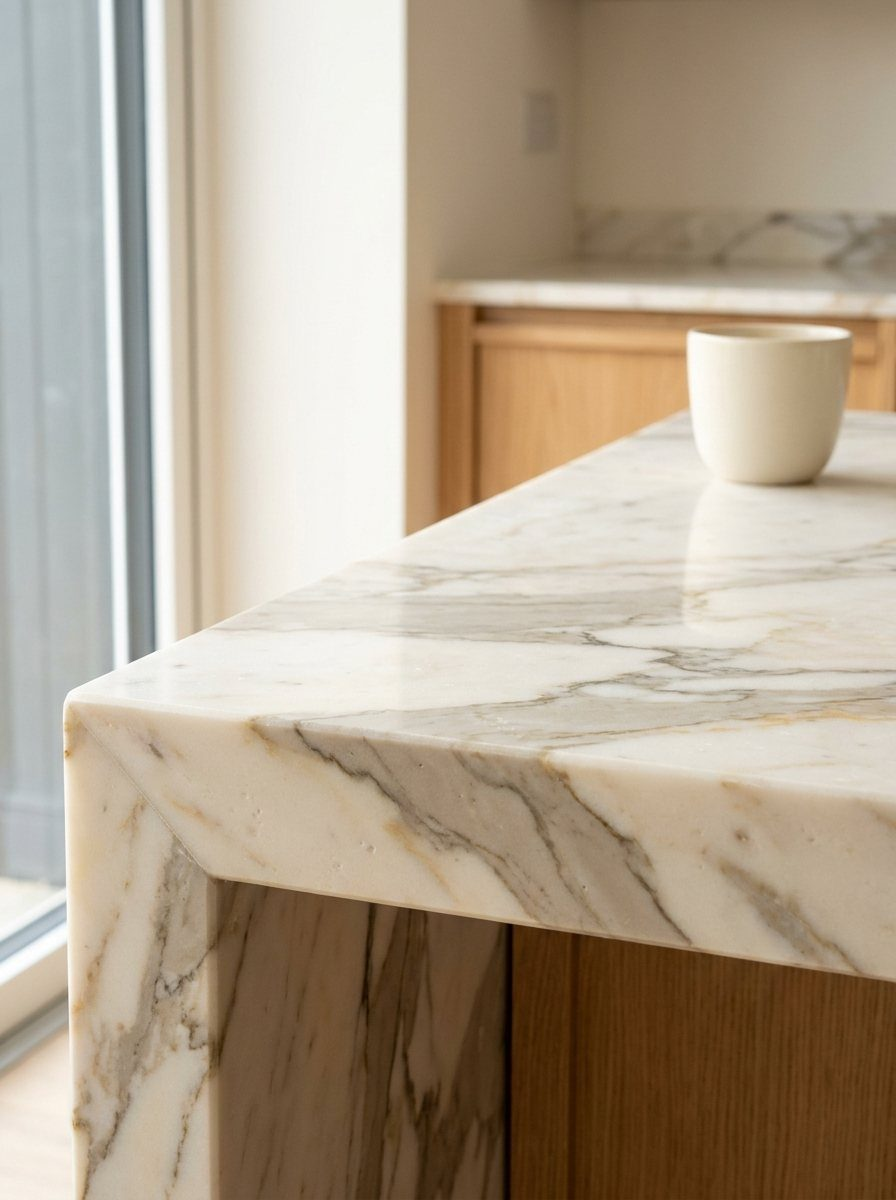
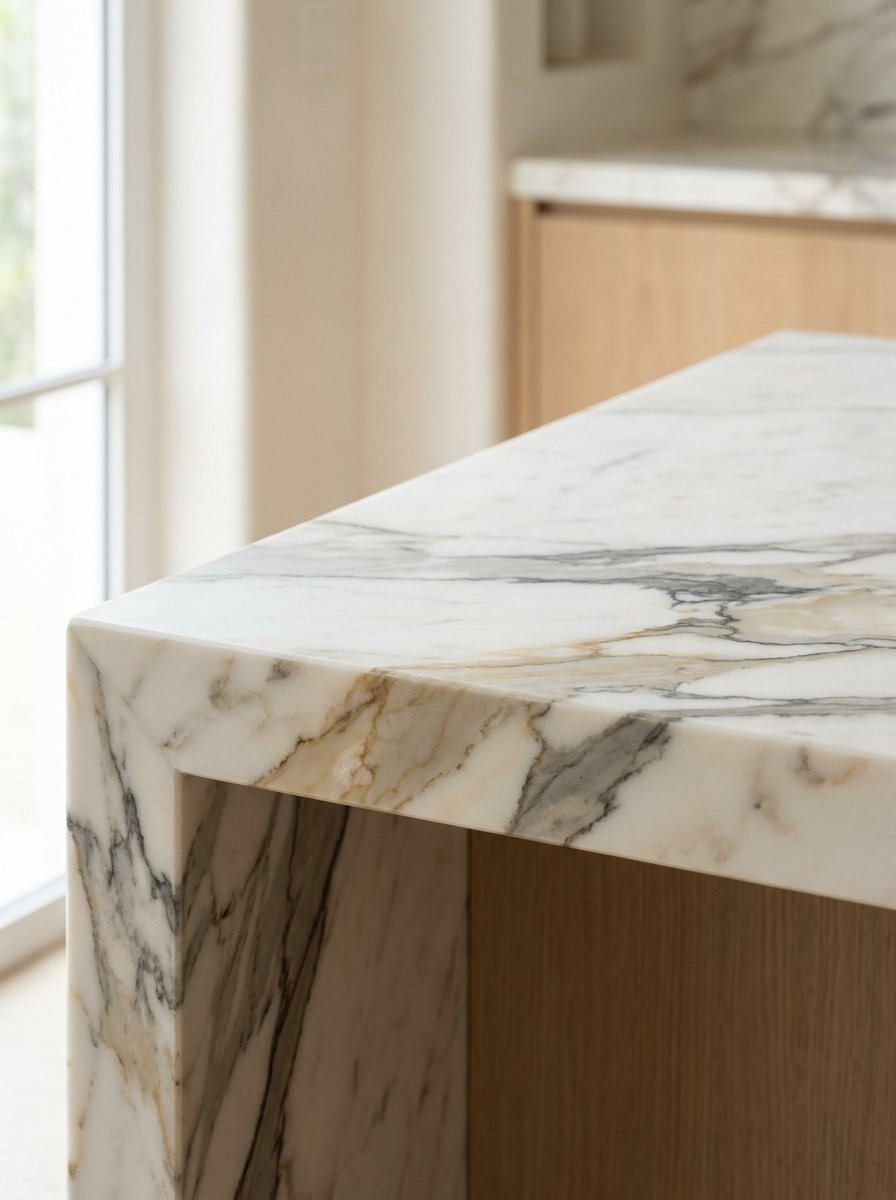
Material swatches generated with web-searched references (Nano Banana Pro + Google Search)
Claude-Session: https://claude.ai/code/session_01Cjzu3Aqq7aSZK1PdfcPgDp

diff --git a/evostone-es/tools/gen_materials.py b/evostone-es/tools/gen_materials.py
@@ -1,55 +1,60 @@
 #!/usr/bin/env python3
-"""Генерує 4 плашки матеріалів через Gemini (один стиль для всіх).
-Ключ: змінна GEMINI_API_KEY або ключ, який середовище підставляє саме (x-goog-api-key).
-Запуск:  python tools/gen_materials.py            → assets/img/m-*.jpg
-         python tools/gen_materials.py quartz     → тільки одна
-Промти й пояснення — docs/ES_PROMPTS_materiales.md (тримати синхронно)."""
+"""Генерує 4 плашки матеріалів через Gemini Nano Banana Pro з пошуком референсів у Google.
+Модель спершу сама шукає в інтернеті реальні фото конкретного матеріалу (Caesarstone Alpine Mist,
+Calacatta Gold, Calacatta Viola, Corian Glacier White), а потім генерує кадр за ними.
+Запуск:  ~/.venvs/estone-photo/bin/python tools/gen_materials.py           → assets/img/m-*.jpg
+         ~/.venvs/estone-photo/bin/python tools/gen_materials.py quartz    → тільки одна
+Промти — docs/ES_PROMPTS_materiales.md."""
 import base64, io, json, os, sys, urllib.request
 from pathlib import Path
+from PIL import Image
 
 MODEL = os.environ.get('GEMINI_IMAGE_MODEL', 'gemini-3-pro-image-preview')  # Nano Banana Pro
 OUT = Path(__file__).resolve().parents[1] / 'assets/img'
 
 STYLE = (
-    "Real photograph for a premium stone supplier catalogue. Close-up of the corner of an installed kitchen countertop "
-    "in a real, bright home, seen at about 45 degrees from slightly above: the top surface and the front edge are both visible "
-    "and the stone fills most of the frame, tack sharp, so the natural pattern, grain and finish of the material are unmistakable. "
-    "Natural daylight from a large window on the left, true-to-life colours and an accurate neutral white balance, "
-    "exactly how the stone looks in person. Real reflections of the window on the surface, very subtle real-world imperfections. "
-    "Background softly out of focus: a warm white wall and light natural oak cabinetry; one plain ceramic cup far behind, out of focus. "
-    "Shot on a full-frame camera with a 90 mm lens at f/5.6, natural contrast, no stylised colour grading. "
-    "Vertical 3:4. Must look like a real photo, not a 3D render or CGI. No text, no logos, no people."
+    "Then create a real photograph for a premium stone supplier catalogue, part of a consistent set of four: identical camera angle, light and setting in every image. "
+    "Close-up of the front corner of an installed kitchen countertop in a calm, modern Mediterranean home, seen at about 45 degrees from slightly above; "
+    "the top surface and the front edge are both visible, the stone fills about 70 percent of the frame and is tack sharp. "
+    "Soft natural morning daylight from a large window on the left, true-to-life colours exactly like the real reference photos you found, "
+    "accurate neutral white balance, real soft reflections, natural contrast, no colour grading, no filters. "
+    "Background softly out of focus: a warm white plaster wall and pale natural oak cabinet fronts. "
+    "Full-frame camera, 90 mm lens, f/5.6. Vertical 3:4. It must be indistinguishable from a real photograph, not a 3D render. "
+    "No text, no logos, no people, no extra objects."
 )
 MATERIALS = {
-    'quartz': ("Material: white engineered quartz like 'Alpine Mist': a clean bright white base with thin, soft, light-grey veins that drift diagonally "
-               "and wrap naturally over the edge; up close a fine, even, sand-like crystalline grain. Polished, 20 mm square edge with a tiny eased arris."),
-    'natural': ("Material: genuine Calacatta Gold natural marble: creamy warm-white crystalline base, bold irregular veins in taupe-grey with honey-gold accents, "
-                "tiny natural pits and a faint crystalline sparkle, the vein continuing over the edge as in real quarried stone. Honed finish with a soft sheen, 20 mm eased edge."),
-    'porcelain': ("Material: large-format porcelain slab with a Calacatta Viola design: white body with wide veins in true burgundy, plum and violet tones with a soft grey haze, "
-                  "polished glossy finish, 12 mm slab with a 45-degree mitred edge forming a 4 cm apron, the violet vein matched continuously around the corner."),
-    'solid': ("Material: pure white acrylic solid surface like 'Glacier White': perfectly uniform neutral white with no veins or grain, satin matte finish, "
-              "a softly rounded edge and a seamless integrated sink bowl in the same material curving down from the top with no joint at all."),
+    'quartz': ("First search the web for real photos of white quartz countertops with fine grey veining, such as Caesarstone 'Alpine Mist' or Silestone 'Lagoon', "
+               "to learn the exact look. The countertop is this WHITE quartz (not grey, not beige): a bright clean white base with thin, soft, light-grey veins "
+               "and a fine even crystalline grain visible up close, polished, 20 mm edge."),
+    'natural': ("First search the web for real photos of natural Calacatta Gold marble slabs and countertops to learn its exact colours and veining. "
+                "The countertop is genuine Calacatta Gold marble: warm white crystalline base, bold irregular grey veins with golden-honey accents that continue over the edge, honed with a soft sheen, 20 mm edge."),
+    'porcelain': ("First search the web for real photos of Calacatta Viola porcelain / sintered stone countertops to learn the exact colours and veining. "
+                  "The countertop is large-format Calacatta Viola porcelain: white base with wide burgundy-violet veins with grey haze, polished, 12 mm slab with a 45-degree mitred edge forming a 4 cm apron, the vein matched around the corner."),
+    'solid': ("First search the web for real photos of white acrylic solid surface countertops with integrated sinks (such as Corian Glacier White) to learn the exact look. "
+              "The countertop is pure white solid surface: perfectly uniform warm-neutral white, no veins, satin matte finish, softly rounded edge, "
+              "with the rim of a seamless integrated sink of the same material visible at the corner, no joints."),
 }
 
 def gen(key):
-    body = {"contents": [{"parts": [{"text": STYLE + " " + MATERIALS[key]}]}],
-            "generationConfig": {"responseModalities": ["IMAGE"], "imageConfig": {"aspectRatio": "3:4"}}}
+    body = {"contents": [{"parts": [{"text": MATERIALS[key] + " " + STYLE}]}],
+            "tools": [{"google_search": {}}],
+            "generationConfig": {"responseModalities": ["TEXT", "IMAGE"], "imageConfig": {"aspectRatio": "3:4"}}}
     headers = {"Content-Type": "application/json"}
     if os.environ.get('GEMINI_API_KEY'):
         headers["x-goog-api-key"] = os.environ['GEMINI_API_KEY']
     req = urllib.request.Request(f"https://generativelanguage.googleapis.com/v1beta/models/{MODEL}:generateContent",
                                  data=json.dumps(body).encode(), headers=headers)
-    r = json.load(urllib.request.urlopen(req, timeout=240))
-    for part in r['candidates'][0]['content']['parts']:
+    r = json.load(urllib.request.urlopen(req, timeout=300))
+    c = r['candidates'][0]
+    for part in c['content']['parts']:
         if 'inlineData' in part:
-            raw = base64.b64decode(part['inlineData']['data'])
-            try:                                   # Gemini віддає PNG — зберігаємо справжній JPEG
-                from PIL import Image
-                Image.open(io.BytesIO(raw)).convert('RGB').save(OUT / f'm-{key}.jpg', 'JPEG', quality=84, optimize=True, progressive=True)
-            except ImportError:
-                (OUT / f'm-{key}.png').write_bytes(raw)
-            print('✓', f'm-{key}.jpg'); return
-    raise SystemExit('немає зображення у відповіді: ' + json.dumps(r)[:400])
+            im = Image.open(io.BytesIO(base64.b64decode(part['inlineData']['data']))).convert('RGB')
+            im.thumbnail((1600, 1600), Image.LANCZOS)
+            im.save(OUT / f'm-{key}.jpg', 'JPEG', quality=84, optimize=True, progressive=True)
+            src = [x.get('web', {}).get('title') for x in c.get('groundingMetadata', {}).get('groundingChunks', [])]
+            print('✓', f'm-{key}.jpg', '· референси:', ', '.join(filter(None, src))[:200])
+            return
+    raise SystemExit('немає зображення: ' + json.dumps(r)[:400])
 
 for k in (sys.argv[1:] or MATERIALS):
     gen(k)

diff --git a/docs/ES_PROMPTS_materiales.md b/docs/ES_PROMPTS_materiales.md
@@ -9,31 +9,35 @@
 ~/.venvs/estone-photo/bin/python evostone-es/tools/gen_scenes.py s-design    # один кадр
 ```
 
-## Плашки матеріалів
+## Плашки матеріалів (з пошуком референсів у Google)
+
+Модель спершу **сама шукає в інтернеті реальні фото матеріалу** (інструмент `google_search` у Nano Banana Pro), потім генерує кадр за ними. Знайдені джерела під час останньої генерації: caesarstoneus.com, marble.com, marblesystems.com, msisurfaces.com, ciero.ca, novatileandstone.com, corian.com.
+
+Промт = опис матеріалу (з інструкцією «спочатку знайди фото») + спільна частина.
 
 ### Спільна частина
 ```
-Real photograph for a premium stone supplier catalogue. Close-up of the corner of an installed kitchen countertop in a real, bright home, seen at about 45 degrees from slightly above: the top surface and the front edge are both visible and the stone fills most of the frame, tack sharp, so the natural pattern, grain and finish of the material are unmistakable. Natural daylight from a large window on the left, true-to-life colours and an accurate neutral white balance, exactly how the stone looks in person. Real reflections of the window on the surface, very subtle real-world imperfections. Background softly out of focus: a warm white wall and light natural oak cabinetry; one plain ceramic cup far behind, out of focus. Shot on a full-frame camera with a 90 mm lens at f/5.6, natural contrast, no stylised colour grading. Vertical 3:4. Must look like a real photo, not a 3D render or CGI. No text, no logos, no people.
+Then create a real photograph for a premium stone supplier catalogue, part of a consistent set of four: identical camera angle, light and setting in every image. Close-up of the front corner of an installed kitchen countertop in a calm, modern Mediterranean home, seen at about 45 degrees from slightly above; the top surface and the front edge are both visible, the stone fills about 70 percent of the frame and is tack sharp. Soft natural morning daylight from a large window on the left, true-to-life colours exactly like the real reference photos you found, accurate neutral white balance, real soft reflections, natural contrast, no colour grading, no filters. Background softly out of focus: a warm white plaster wall and pale natural oak cabinet fronts. Full-frame camera, 90 mm lens, f/5.6. Vertical 3:4. It must be indistinguishable from a real photograph, not a 3D render. No text, no logos, no people, no extra objects.
 ```
 
 ### m-quartz.jpg
 ```
-Material: white engineered quartz like 'Alpine Mist': a clean bright white base with thin, soft, light-grey veins that drift diagonally and wrap naturally over the edge; up close a fine, even, sand-like crystalline grain. Polished, 20 mm square edge with a tiny eased arris.
+First search the web for real photos of white quartz countertops with fine grey veining, such as Caesarstone 'Alpine Mist' or Silestone 'Lagoon', to learn the exact look. The countertop is this WHITE quartz (not grey, not beige): a bright clean white base with thin, soft, light-grey veins and a fine even crystalline grain visible up close, polished, 20 mm edge.
 ```
 
 ### m-natural.jpg
 ```
-Material: genuine Calacatta Gold natural marble: creamy warm-white crystalline base, bold irregular veins in taupe-grey with honey-gold accents, tiny natural pits and a faint crystalline sparkle, the vein continuing over the edge as in real quarried stone. Honed finish with a soft sheen, 20 mm eased edge.
+First search the web for real photos of natural Calacatta Gold marble slabs and countertops to learn its exact colours and veining. The countertop is genuine Calacatta Gold marble: warm white crystalline base, bold irregular grey veins with golden-honey accents that continue over the edge, honed with a soft sheen, 20 mm edge.
 ```
 
 ### m-porcelain.jpg
 ```
-Material: large-format porcelain slab with a Calacatta Viola design: white body with wide veins in true burgundy, plum and violet tones with a soft grey haze, polished glossy finish, 12 mm slab with a 45-degree mitred edge forming a 4 cm apron, the violet vein matched continuously around the corner.
+First search the web for real photos of Calacatta Viola porcelain / sintered stone countertops to learn the exact colours and veining. The countertop is large-format Calacatta Viola porcelain: white base with wide burgundy-violet veins with grey haze, polished, 12 mm slab with a 45-degree mitred edge forming a 4 cm apron, the vein matched around the corner.
 ```
 
 ### m-solid.jpg
 ```
-Material: pure white acrylic solid surface like 'Glacier White': perfectly uniform neutral white with no veins or grain, satin matte finish, a softly rounded edge and a seamless integrated sink bowl in the same material curving down from the top with no joint at all.
+First search the web for real photos of white acrylic solid surface countertops with integrated sinks (such as Corian Glacier White) to learn the exact look. The countertop is pure white solid surface: perfectly uniform warm-neutral white, no veins, satin matte finish, softly rounded edge, with the rim of a seamless integrated sink of the same material visible at the corner, no joints.
 ```
 
 ## Сцени (гідрорізка, фасади, процес)
